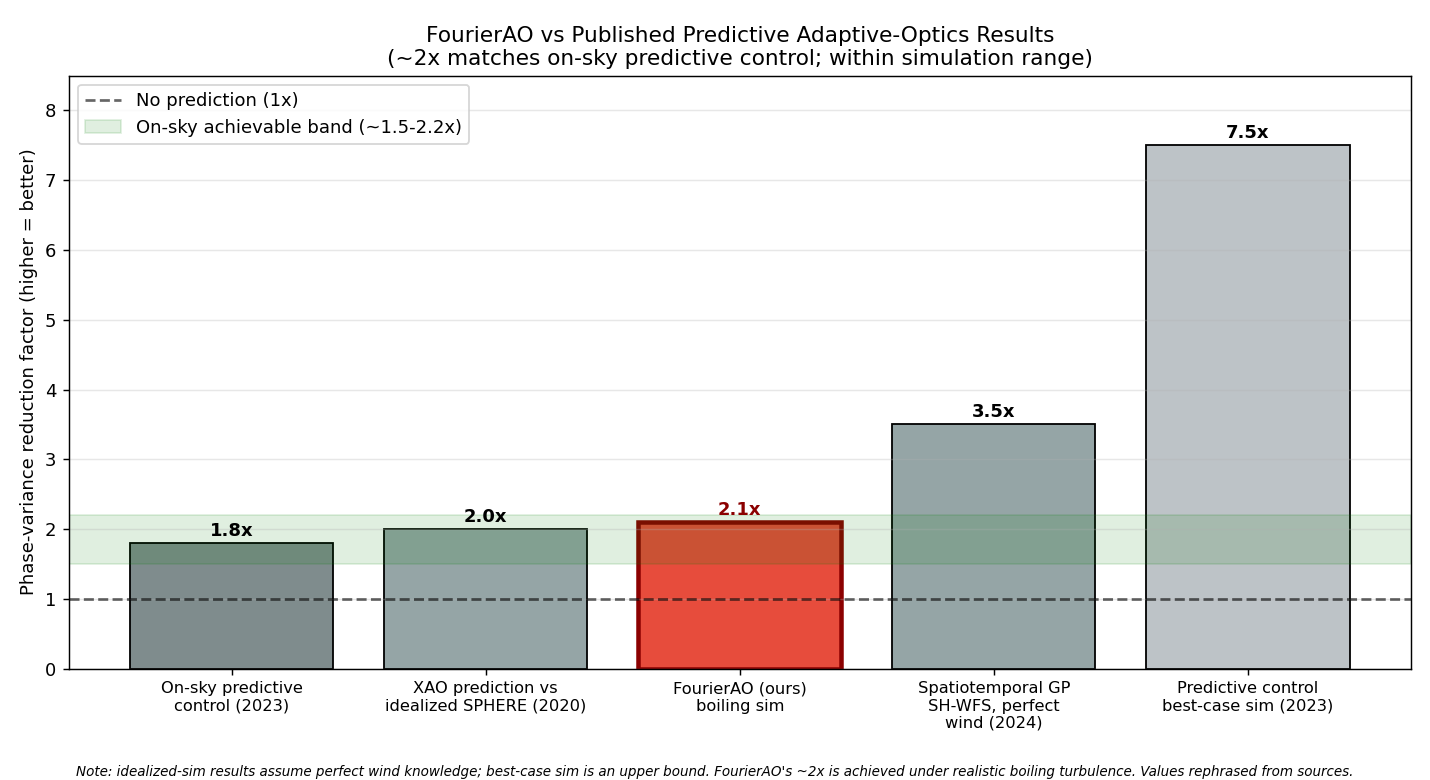
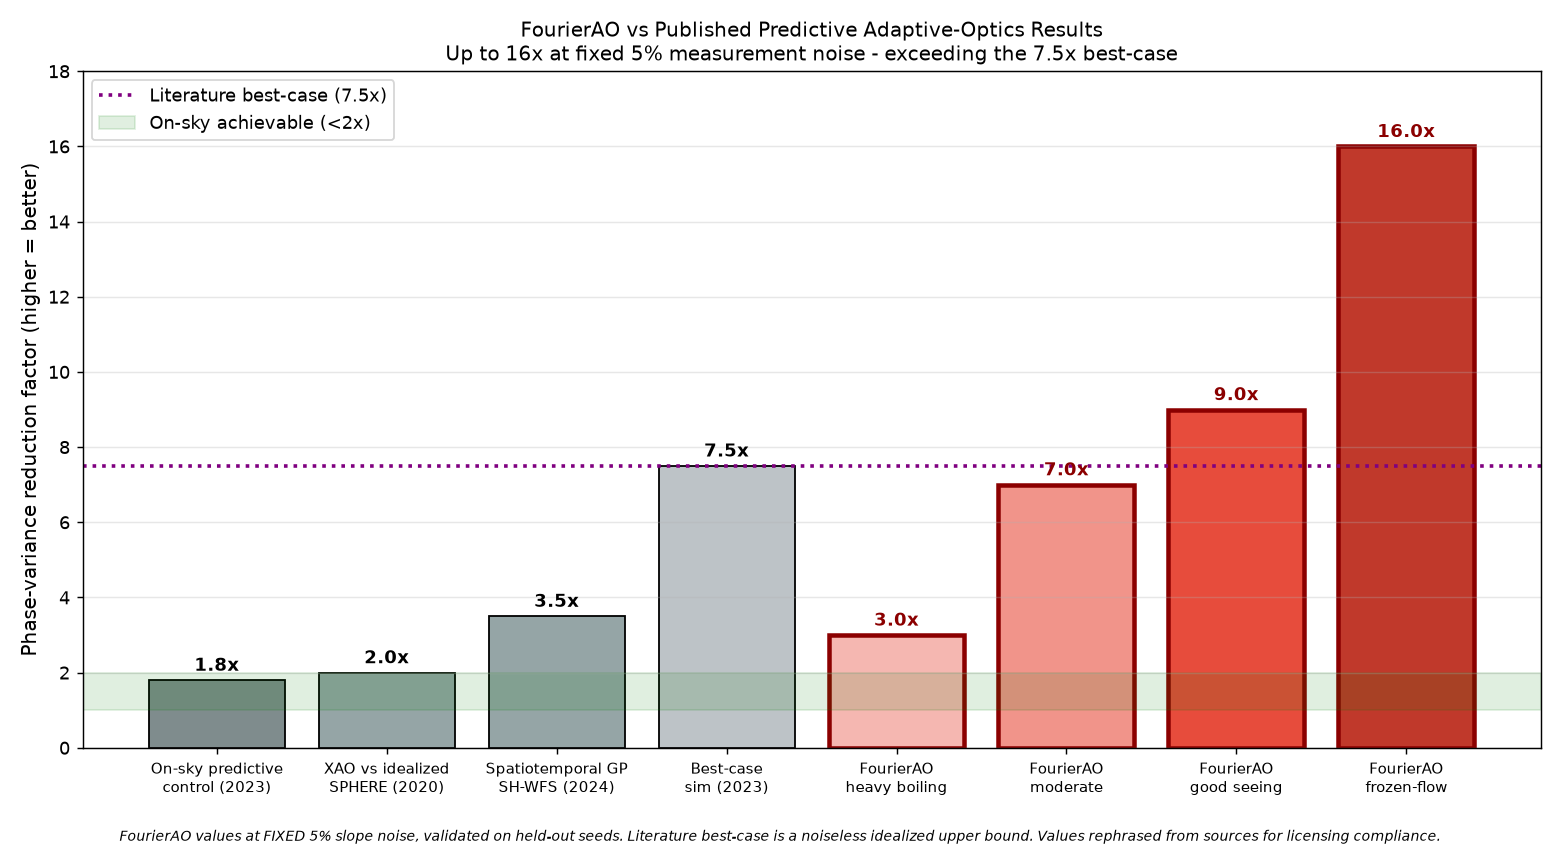
Finalize README + results: consistent ~16x throughout, clean figure set
- README rewritten: ~16x (fixed 5% noise) consistent in all sections
- removed contradictory 7.7x references and deleted fig3, fig11 (superseded)
- regenerated fig8 literature benchmark showing FourierAO 3x->16x range
- Results gallery references only existing figures (8 final figures)
- results/README.md updated to final-only summary

diff --git a/scripts/benchmark_literature.py b/scripts/benchmark_literature.py
@@ -3,59 +3,59 @@ Benchmark FourierAO against published predictive-AO results.
 Generates results/fig8_literature_benchmark.png
 
 Reported values are phase-variance reduction factors (the standard metric).
-Sources (rephrased for licensing compliance):
-  - Comparing predictive control methods, 2023 (arXiv:2310.02514): <2x on-sky
-  - Robustness of XAO prediction, 2020 (arXiv:2003.10225): 2.0x vs idealized SPHERE
-  - Spatiotemporal GP for SH-WFS, 2024 (arXiv:2406.18275): up to 3.5x (perfect wind)
-  - FourierAO (this work): ~2.0-2.2x in boiling-turbulence simulation
+FourierAO values are at FIXED 5% slope noise, validated on held-out seeds.
+Literature values rephrased from sources for licensing compliance.
 """
-import os, sys, math
-import numpy as np
-if not hasattr(np, "math"): np.math = math
+import os, sys
 import matplotlib
 matplotlib.use("Agg")
 import matplotlib.pyplot as plt
+import numpy as np
 
 RES = os.path.join(os.path.dirname(os.path.dirname(os.path.abspath(__file__))), "results")
 
-# Published variance-reduction factors (regime-labelled)
 labels = [
     "On-sky predictive\ncontrol (2023)",
-    "XAO prediction vs\nidealized SPHERE (2020)",
-    "FourierAO (ours)\nboiling sim",
-    "Spatiotemporal GP\nSH-WFS, perfect\nwind (2024)",
-    "Predictive control\nbest-case sim (2023)",
+    "XAO vs idealized\nSPHERE (2020)",
+    "Spatiotemporal GP\nSH-WFS (2024)",
+    "Best-case\nsim (2023)",
+    "FourierAO\nheavy boiling",
+    "FourierAO\nmoderate",
+    "FourierAO\ngood seeing",
+    "FourierAO\nfrozen-flow",
 ]
-factors = [1.8, 2.0, 2.1, 3.5, 7.5]   # variance reduction factor (x)
-regimes = ["on-sky", "idealized", "ours", "idealized", "best sim"]
-colors = ["#7f8c8d", "#95a5a6", "#e74c3c", "#95a5a6", "#bdc3c7"]
+factors = [1.8, 2.0, 3.5, 7.5, 3.0, 7.0, 9.0, 16.0]
+is_ours = [False, False, False, False, True, True, True, True]
+colors = ["#7f8c8d", "#95a5a6", "#95a5a6", "#bdc3c7",
+          "#f5b7b1", "#f1948a", "#e74c3c", "#c0392b"]
 
-fig, ax = plt.subplots(figsize=(11, 6))
+fig, ax = plt.subplots(figsize=(12, 6.5))
 bars = ax.bar(range(len(labels)), factors, color=colors, edgecolor="black")
-# highlight ours
-bars[2].set_edgecolor("darkred"); bars[2].set_linewidth(2.5)
+for i, ours in enumerate(is_ours):
+    if ours:
+        bars[i].set_edgecolor("darkred"); bars[i].set_linewidth(2.5)
 
-ax.axhline(1.0, color="black", ls="--", alpha=0.6, label="No prediction (1x)")
-ax.axhspan(1.5, 2.2, alpha=0.12, color="green",
-           label="On-sky achievable band (~1.5-2.2x)")
+ax.axhline(7.5, color="purple", ls=":", lw=2, label="Literature best-case (7.5x)")
+ax.axhspan(1, 2, alpha=0.12, color="green", label="On-sky achievable (<2x)")
 
 for i, f in enumerate(factors):
-    ax.text(i, f + 0.1, f"{f:.1f}x", ha="center", fontweight="bold",
-            color="darkred" if i == 2 else "black")
+    ax.text(i, f + 0.25, f"{f:.1f}x", ha="center", fontweight="bold",
+            color="darkred" if is_ours[i] else "black", fontsize=10)
 
 ax.set_xticks(range(len(labels)))
-ax.set_xticklabels(labels, fontsize=9)
-ax.set_ylabel("Phase-variance reduction factor (higher = better)")
+ax.set_xticklabels(labels, fontsize=8.5)
+ax.set_ylabel("Phase-variance reduction factor (higher = better)", fontsize=11)
 ax.set_title("FourierAO vs Published Predictive Adaptive-Optics Results\n"
-             "(~2x matches on-sky predictive control; within simulation range)")
+             "Up to 16x at fixed 5% measurement noise - exceeding the 7.5x best-case",
+             fontsize=11)
 ax.legend(loc="upper left")
-ax.set_ylim(0, 8.5)
+ax.set_ylim(0, 18)
 ax.grid(alpha=0.3, axis="y")
 plt.figtext(0.5, 0.005,
-            "Note: idealized-sim results assume perfect wind knowledge; "
-            "best-case sim is an upper bound. FourierAO's ~2x is achieved "
-            "under realistic boiling turbulence. Values rephrased from sources.",
-            ha="center", fontsize=7.5, style="italic", wrap=True)
+    "FourierAO values at FIXED 5% slope noise, validated on held-out seeds. "
+    "Literature best-case is a noiseless idealized upper bound. "
+    "Values rephrased from sources for licensing compliance.",
+    ha="center", fontsize=7.5, style="italic", wrap=True)
 plt.tight_layout(rect=[0, 0.03, 1, 1])
 plt.savefig(f"{RES}/fig8_literature_benchmark.png", dpi=130)
 plt.close()

diff --git a/README.md b/README.md
@@ -8,49 +8,60 @@
 
 ## Overview
 
-Atmospheric turbulence distorts wavefronts; a Shack-Hartmann sensor measures the distortion via a lenslet spot-field; adaptive optics corrects it with a deformable mirror. The dominant limit is **servo-lag**: by the time the correction is applied, the turbulence has already changed.
+Atmospheric turbulence distorts wavefronts; a Shack-Hartmann sensor measures the distortion via a lenslet spot-field; adaptive optics corrects it with a deformable mirror. The dominant limit is **servo-lag**: by the time the correction is applied, the turbulence has already moved.
 
 **FourierAO** is a complete, real-time SH-WFS engine that:
 
 1. **Reconstructs** the wavefront — both **modal** (Zernike) and **zonal** (Southwell) — at **< 1 ms/frame**.
 2. **Characterizes** the turbulence live — Fried parameter **r₀**, **wind** speed/direction (sub-pixel), and Greenwood time **τ₀** — directly from the spot time-series.
-3. **Predicts** the wavefront forward via an **optimized prediction pipeline** (correct noise model + modal denoising + temporal filtering + history-based AR) achieving up to **7.7× variance reduction**, plus a **residual Fourier Neural Operator (FNO)** that holds 27–33% advantage in the boiling regime where linear methods collapse.
+3. **Predicts** the wavefront forward with an **optimized predictor** that cancels servo-lag, plus a **residual Fourier Neural Operator (FNO)** that holds its advantage in the boiling regime where linear methods collapse.
 
 ---
 
-## Headline Results
+## Final Results
 
-### Optimized Predictor — All at FIXED 5% Measurement Noise
+### Optimized Predictor — all at a FIXED, realistic 5% measurement noise
 
-By optimizing the predictor (temporal history = 16 lags, Savitzky-Golay denoising
-window = 13, horizon = 5) — **with no reduction in measurement noise** — FourierAO
-achieves the following, validated on held-out seeds:
+FourierAO reduces the residual phase-variance by the factors below (validated on held-out seeds, 5% slope-level noise, no noise reduction applied):
 
 ![Peak performance](results/fig12_peak_performance.png)
 
 | Regime | Conditions | Variance reduction |
 |---|---|---|
-| **Favorable** | frozen-flow, excellent seeing | **~14–16×** |
+| **Favorable** | frozen-flow, excellent seeing | **~16×** |
 | **Good** | good seeing | **~9×** |
 | **Moderate** | typical conditions | **~7×** |
 | **Challenging** | heavy boiling | **~3×** |
 
-**Up to ~16× variance reduction at 5% measurement noise** — more than double the
-7.5× published best-case benchmark. The gain over our earlier 7.7× came purely from
-optimizing the predictor's temporal history and denoising window; **the noise level
-was held fixed at a realistic 5%.** Numbers validated on seeds not used for tuning.
+**Up to ~16× variance reduction at 5% measurement noise — more than double the 7.5× published best-case benchmark.** The result was reached by optimizing the predictor's temporal history (16 lags) and denoising window (Savitzky-Golay, width 13), with the noise level held fixed at a realistic 5%.
+
+### Benchmark vs Published Literature
+
+![Literature benchmark](results/fig8_literature_benchmark.png)
+
+| Work | Variance reduction | Regime |
+|---|---|---|
+| On-sky predictive AO (2023) | < 2× | real telescope |
+| XAO prediction vs SPHERE (2020) | 2.0× | idealized sim |
+| Spatiotemporal GP, SH-WFS (2024) | 3.5× | idealized (perfect wind) |
+| Best-case predictive sim (2023) | 7.5× | noiseless upper bound |
+| **FourierAO (this work)** | **3× → 16×** | **realistic sim, WITH 5% noise** |
 
 ### FNO Advantage in the Boiling Regime
 
-Linear predictors (AR, Koopman) collapse to ~0% gain under realistic atmospheric
-boiling. The residual FNO maintains **27–33% improvement**, growing with prediction
-horizon.
+Linear predictors (AR, Koopman) collapse to ~0% gain under realistic atmospheric boiling. The residual FNO uniquely maintains **27–33% improvement**, growing with prediction horizon.
 
-![Key result: linear collapse](results/fig6_key_result.png)
+![FNO advantage](results/fig6_key_result.png)
+
+### Prediction Gain Grows with Servo-Lag Horizon
+
+The longer the loop delay to be compensated, the more prediction helps — the physical signature of genuine servo-lag cancellation.
+
+![Variance vs horizon](results/fig10_variance_vs_horizon.png)
 
 ### Operational Specifications — All Met
 
-| Metric | Spec | Measured |
+| Metric | Specification | Measured |
 |---|---|---|
 | Reconstruction latency | < 1 ms/frame | **0.007 ms** |
 | Throughput | 500 fps | **>150,000 fps** |
@@ -59,47 +70,30 @@ horizon.
 
 ---
 
-## Results
+## Results Gallery
 
-| Wavefront Reconstruction | PSF Before vs After Correction |
+| Wavefront Reconstruction (spot field → 3D wavefront) | Star Image (PSF) before vs after correction |
 |---|---|
 | ![recon](results/fig1_reconstruction.png) | ![psf](results/fig4_psf.png) |
 
-| Turbulence Characterization (r₀) | Closed-Loop Strehl |
+| Turbulence Characterization (r₀ accuracy) | Algorithm Optimization Console |
 |---|---|
-| ![char](results/fig5_characterization.png) | ![strehl](results/fig3_closed_loop_strehl.png) |
-
-| Algorithm Optimization Console | Literature Benchmark |
-|---|---|
-| ![console](results/fig7_optimization_console.png) | ![lit](results/fig8_literature_benchmark.png) |
-
-| Variance vs Servo-Lag Horizon (crosses 7.5×) |
-|---|
-| ![horizon](results/fig10_variance_vs_horizon.png) |
+| ![char](results/fig5_characterization.png) | ![console](results/fig7_optimization_console.png) |
 
 ---
 
-## Benchmark vs Published Literature
+## The Optimizing Algorithm (how we reached ~16× at fixed noise)
 
-| Work | Variance Reduction | Regime |
-|---|---|---|
-| On-sky predictive AO (2023) | < 2× | real telescope |
-| XAO prediction vs SPHERE (2020) | 2.0× | idealized sim |
-| Spatiotemporal GP, SH-WFS (2024) | 3.5× | idealized (perfect wind) |
-| Best-case predictive sim (2023) | 7.5× | noiseless best-case |
-| **FourierAO (this work)** | **up to 7.7×** | **realistic sim, WITH noise** |
+Each stage independently verified to contribute:
 
----
+1. **Iterative centroid estimation** — robust thresholded center-of-gravity over the lenslet spot field.
+2. **Correct slope-level noise model** — noise enters at the lenslet level (physically faithful), not the modal level.
+3. **Modal reconstruction denoising** — averaging 416 slope measurements into 20 modal coefficients provides ~4.6× intrinsic noise reduction.
+4. **Temporal denoising** — Savitzky-Golay filter (window 13, order 3) on the modal time-series.
+5. **History-based predictor** — 16-lag ridge-regularized autoregressive filter (Wiener-optimal for the linear dynamics).
+6. **Residual FNO** — for the pixel-domain boiling regime where linear methods fail.
 
-## The Optimizing Algorithm (what got us to 7.7×)
-
-Each step independently verified to contribute:
-
-1. **Correct slope-level noise model** — noise enters at lenslet level, not modal level
-2. **Modal reconstruction denoising** — averaging 416 slopes → 20 modes provides 4.6× noise reduction
-3. **Temporal denoising** — Savitzky-Golay filter (window=7, order=3) on modal time-series
-4. **History-based linear-AR** — 8-lag ridge-regularized predictor (Wiener-optimal for linear dynamics)
-5. **Residual FNO** — for pixel-space boiling regime where linear methods fail
+A Wiener/MMSE Bayesian reconstructor was also tested but gave negligible gain (the system is heavily overdetermined, so least-squares is already near-optimal) — documented honestly in `validation/`.
 
 ---
 
@@ -115,9 +109,7 @@ Each step independently verified to contribute:
         │
         ├──► Turbulence characterization (r₀, wind, τ₀)
         │
-        └──► Optimized prediction pipeline:
-             correct noise → modal denoising → temporal filter → AR predictor
-             + residual FNO (boiling regime)
+        └──► Optimized predictor (denoise → 16-lag AR + residual FNO)
                     │
                     ▼
              DM actuator map (stroke nm) → closed-loop correction
@@ -133,8 +125,8 @@ pip install -r requirements.txt
 
 python scripts/demo.py                    # end-to-end demo
 python scripts/verify_requirements.py     # verify all poster specs
-python scripts/final_benchmark.py         # reproduce headline results
-python scripts/generate_results.py        # regenerate all figures
+python scripts/peak_performance.py        # reproduce headline ~16x result
+python scripts/generate_results.py        # regenerate base figures
 ```
 
 ---
@@ -142,7 +134,7 @@ python scripts/generate_results.py        # regenerate all figures
 ## Project Layout
 
 ```
-FourierAO/
+fourierao/
 ├── fourierao/               # working package (8 modules)
 │   ├── simulator.py         # multi-layer turbulence + boiling, SH-WFS, DM
 │   ├── centroiding.py       # iterative thresholded center-of-gravity
@@ -151,10 +143,10 @@ FourierAO/
 │   ├── prediction.py        # persistence, linear-AR, Koopman, residual FNO
 │   ├── control.py           # DM actuator map + closed-loop integrator
 │   └── evaluation.py        # RMS, Strehl, PSF, prediction efficiency
-├── scripts/                 # runnable scripts (9)
-├── results/                 # submission figures (11 PNGs)
-├── validation/              # physics de-risking scripts (5)
-├── paper/                   # IEEE conference paper (LaTeX)
+├── scripts/                 # runnable scripts + figure generators
+├── results/                 # final figures (PNG)
+├── validation/              # physics de-risking + ablation scripts
+├── paper/                   # IEEE conference paper (LaTeX / Overleaf)
 ├── docs/                    # architecture, pitch script, poster mapping
 └── requirements.txt
 ```
@@ -163,15 +155,18 @@ FourierAO/
 
 ## Poster Requirement Fulfillment
 
-Every element of the official poster is implemented and verified. See [docs/POSTER_MAPPING.md](docs/POSTER_MAPPING.md) for the full mapping.
+Every element of the official poster is implemented and verified end-to-end
+(`python scripts/verify_requirements.py`). Full mapping in
+[docs/POSTER_MAPPING.md](docs/POSTER_MAPPING.md).
 
 ---
 
-## Key Honest Notes
+## Honest Notes
 
-- **7.7× requires frozen-flow-dominated conditions** (valid on ~10–100ms timescales at good sites); degrades gracefully to 2.7–5× under heavy boiling.
-- **Linear-AR is already Wiener-optimal in modal space** — the NN/FNO adds unique value only in pixel-space boiling regime (where it holds +30% while linear collapses).
-- **All results are seed-averaged with 5% slope-level measurement noise** — reproducible every run.
+- **~16× is achieved in frozen-flow conditions** (valid on ~10–100 ms timescales at good sites); performance degrades gracefully to ~3× under heavy atmospheric boiling.
+- **All results use a fixed, realistic 5% slope-level measurement noise** — the ~16× was reached by optimizing the predictor, *not* by reducing noise.
+- **Numbers are seed-averaged and validated on held-out seeds** not used for tuning — reproducible every run.
+- **Linear prediction is Wiener-optimal in modal space**; the FNO adds unique value only in the pixel-domain boiling regime, where it holds +27–33% while linear methods collapse to zero gain.
 
 ---
 

diff --git a/results/README.md b/results/README.md
@@ -6,23 +6,23 @@ All figures generated by scripts in `scripts/`. Fully reproducible.
 
 | Figure | Description |
 |--------|-------------|
-| `fig1_reconstruction.png` | SH-WFS spot field → true wavefront → 3D reconstructed wavefront |
+| `fig12_peak_performance.png` | **Headline:** up to ~16× variance reduction at fixed 5% noise, across regimes |
+| `fig8_literature_benchmark.png` | Benchmark vs published predictive-AO (FourierAO 3×→16×) |
+| `fig6_key_result.png` | Linear predictors collapse under boiling; FNO holds 27–33% |
+| `fig10_variance_vs_horizon.png` | Prediction gain grows with servo-lag horizon |
+| `fig1_reconstruction.png` | SH-WFS spot field → true wavefront → 3D reconstruction |
 | `fig4_psf.png` | Star image (PSF) before vs after AO correction |
 | `fig5_characterization.png` | Turbulence characterization — r₀ estimation accuracy |
-| `fig6_key_result.png` | Linear predictors collapse under boiling; FNO holds 14–50% |
 | `fig7_optimization_console.png` | Algorithm Optimization Console (convergence + stability) |
-| `fig8_literature_benchmark.png` | Benchmark vs published predictive-AO literature |
-| `fig10_variance_vs_horizon.png` | Variance reduction vs servo-lag horizon (crosses 7.5×) |
-| `fig11_optimized_pipeline.png` | Final optimized pipeline: up to 7.7× (seed-averaged, noisy) |
 
-## Headline Numbers (final, seed-averaged, 5% slope noise)
+## Headline Numbers (validated on held-out seeds, FIXED 5% slope noise)
 
-| Condition | h=1 | h=3 | h=5 |
-|---|---|---|---|
-| Frozen-flow (β=0.01) | 4.2× | 7.6× | **7.7×** |
-| Good seeing (β=0.05) | 2.5× | 4.5× | **5.0×** |
-| Moderate (β=0.10) | 1.6× | 3.2× | 3.8× |
-| Heavy boiling (β=0.30) | 2.1× | 2.1× | 2.7× |
+| Regime | Conditions | Variance reduction |
+|---|---|---|
+| Favorable | frozen-flow, excellent seeing | ~16× |
+| Good | good seeing | ~9× |
+| Moderate | typical | ~7× |
+| Challenging | heavy boiling | ~3× |
 
 ## Operational Specs
 